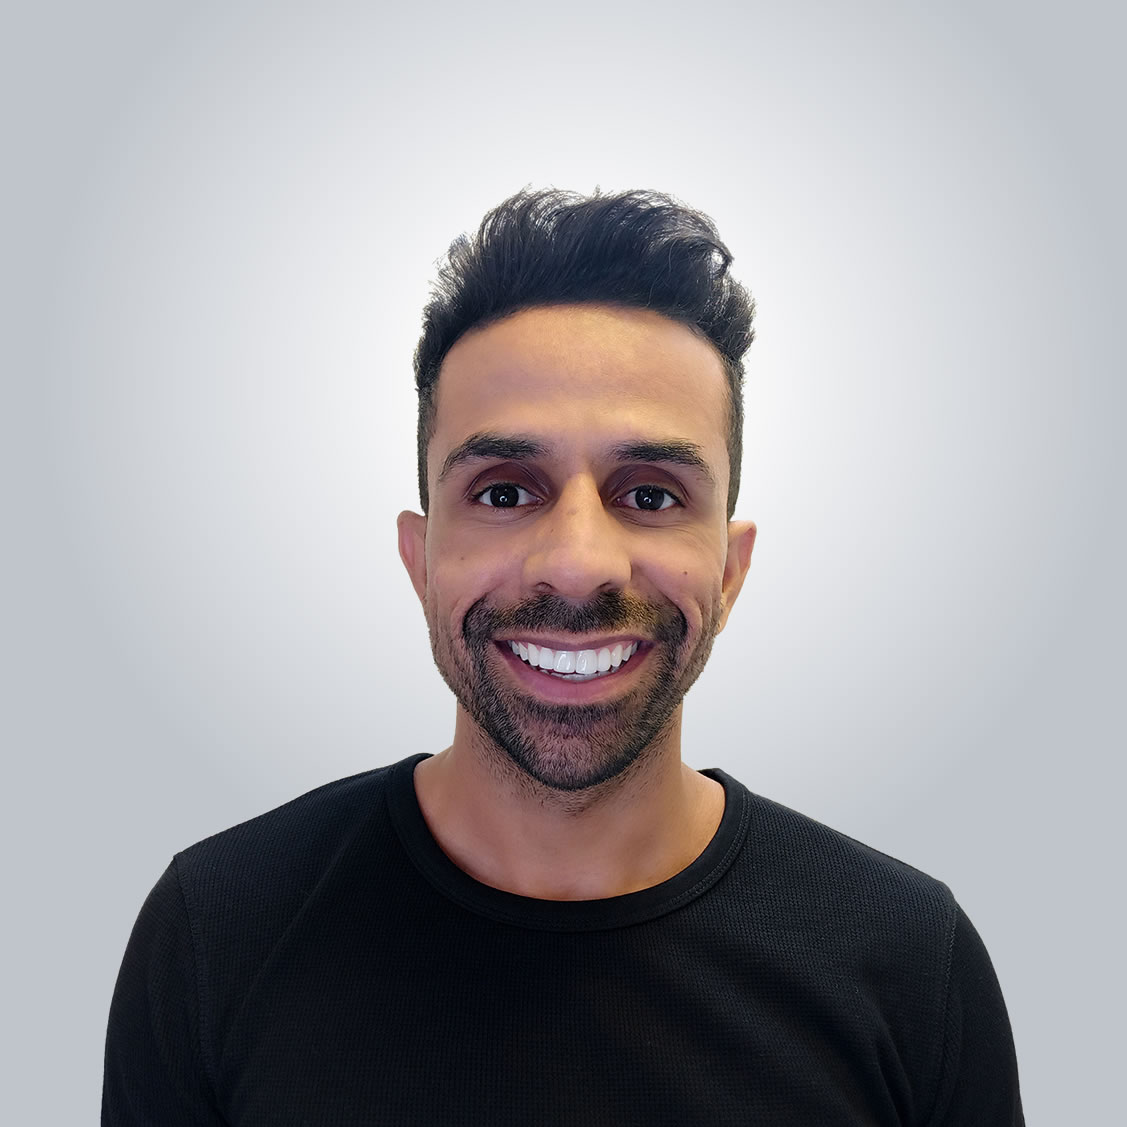
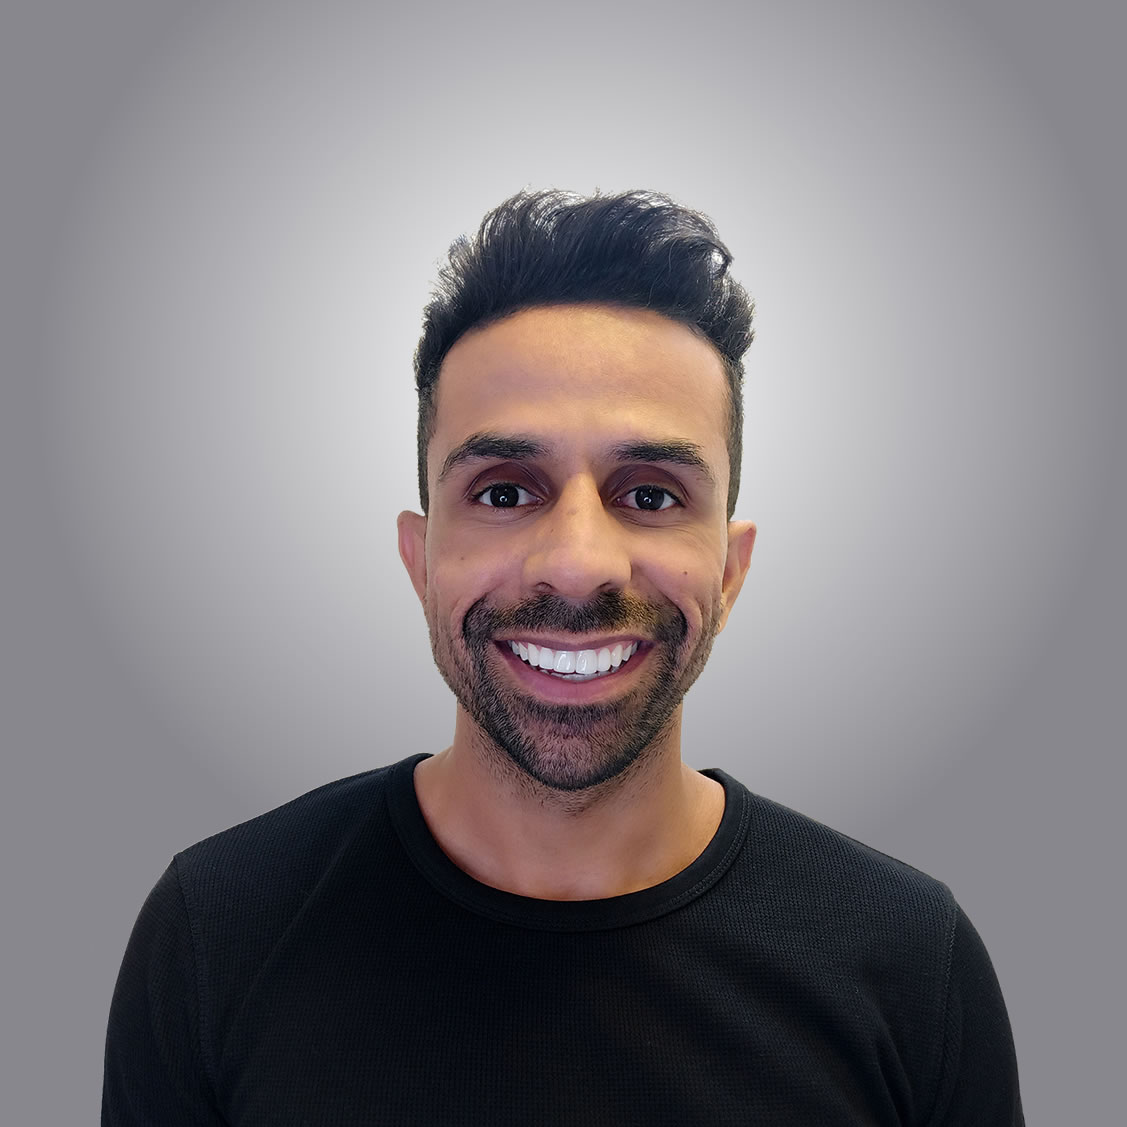
feat: alter photo and colors

diff --git a/style.css b/style.css
@@ -23,8 +23,8 @@ body::-webkit-scrollbar-thumb {
   border: 2px solid rgba(59, 91, 87, 0.77);   /* creates padding around scroll thumb */
 }
 .photo {
-  width: 110px;
-  border-radius: 50%;
+  width: 200px;
+  border-radius: 2%;
 }
 a {
   text-decoration: none;
@@ -96,13 +96,13 @@ img {
   border: 0px solid rgb(255, 255, 255);
   -webkit-box-shadow: 0px 2px 10px rgba(15, 201, 151, 0.99);
   -moz-box-shadow: 0px 2px 10px rgba(15, 201, 151, 0.99);
-  box-shadow: 0px 2px 10px rgba(15, 201, 151, 0.99);
+  box-shadow: 0px 2px 0px rgba(15, 201, 151, 0.99);
 }
 .presentation div img:hover {
   border: 0px solid rgba(15, 201, 151, 0.99);
   -webkit-box-shadow: 0px 4px 10px rgba(15, 201, 151, 0.99);
   -moz-box-shadow: 0px 4px 10px rgba(15, 201, 151, 0.99);
-  box-shadow: 0px 4px 10px rgba(15, 201, 151, 0.99);
+  box-shadow: 0px 2px 5px rgba(15, 201, 151, 0.99);
 }
 .presentation span {
   flex: 1;
